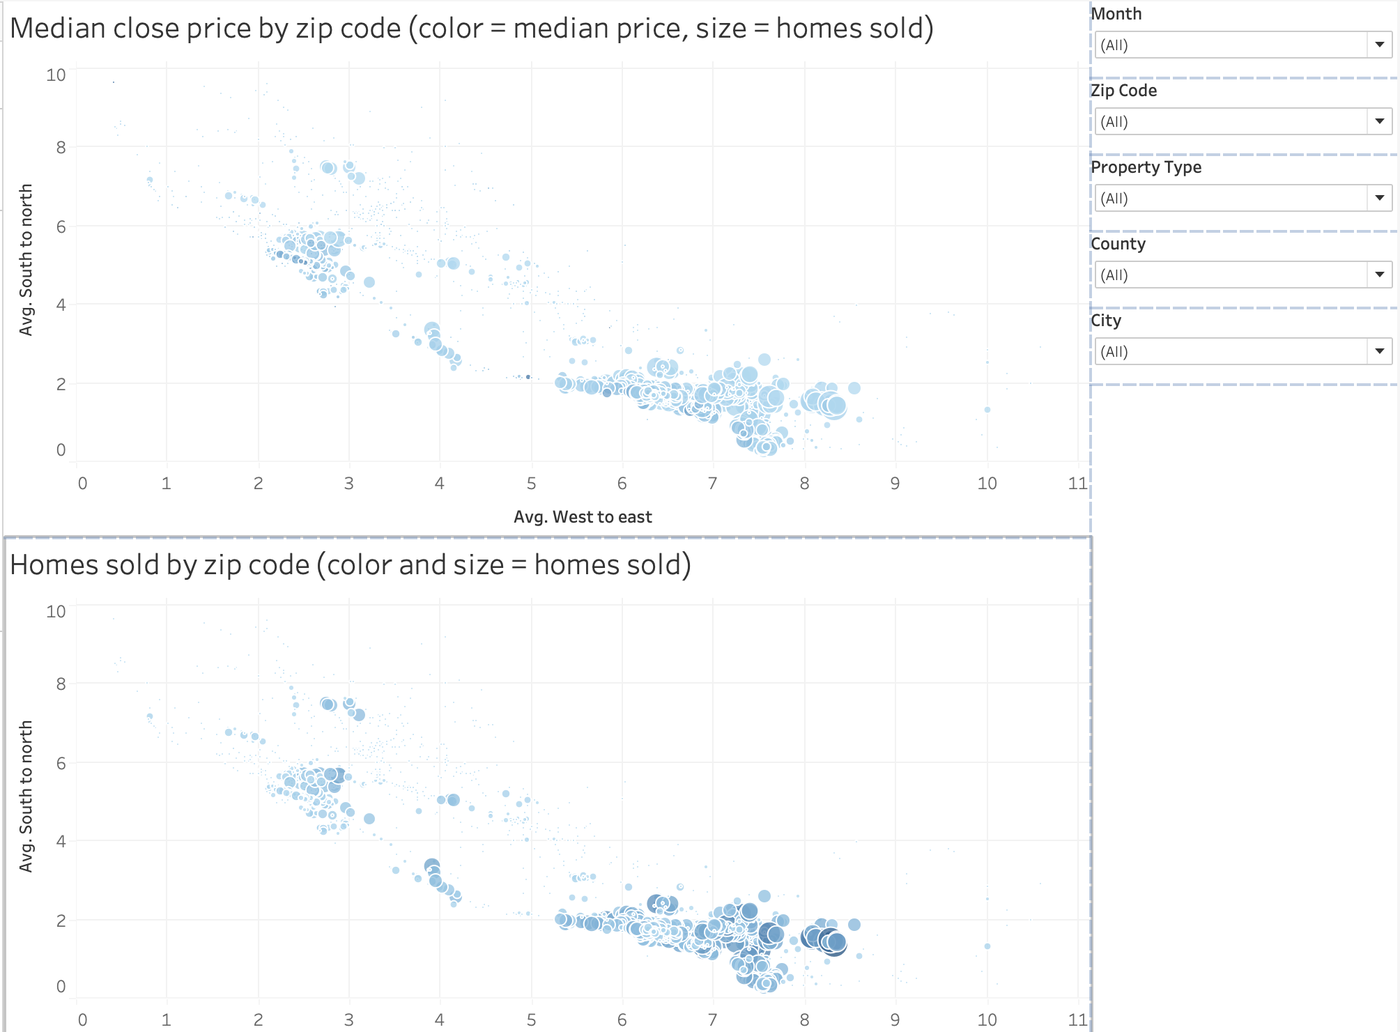
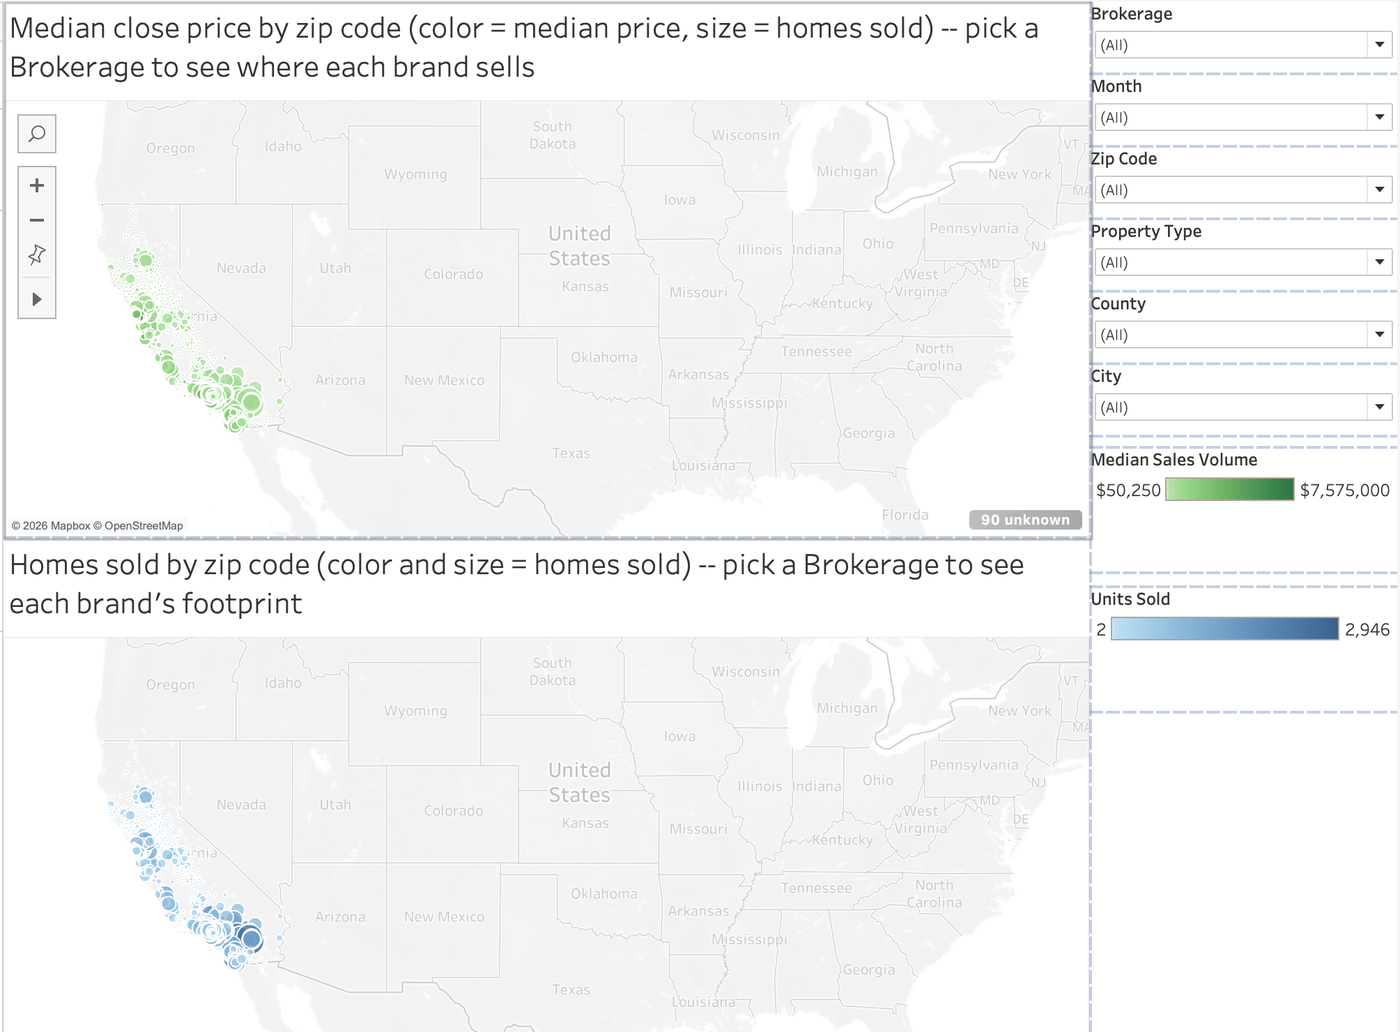
competitive workbook: zip heat maps on Tableau's basemap with brokerage filter and legends
Zips geocoded by Tableau (ZipCode geographic role + generated lat/long),
green/blue palettes, color legends, junk-zip cut (unknowns 2K -> 90), and a
Brokerage dropdown that turns the required heat maps into brand footprint
maps. Sales Volume as its own calculated field so legends title correctly.
Gallery image and READMEs refreshed.

diff --git a/week8-10/make_competitive_workbook.py b/week8-10/make_competitive_workbook.py
@@ -40,7 +40,10 @@ SHARE_FORMULA = "SUM([unit]) / SUM({ EXCLUDE [office_display] : SUM([unit]) }) *
 SOLD_COLS = f"""
       <column caption='Close Date' datatype='date' name='[CloseDate]' role='dimension' type='ordinal' />
       <column caption='Month' datatype='string' name='[YrMo]' role='dimension' type='nominal' />
-      <column caption='Sales Volume' datatype='real' default-format='{FMT_MONEY_FULL}' name='[ClosePrice]' role='measure' type='quantitative' />
+      <column caption='Close Price' datatype='real' default-format='{FMT_MONEY_FULL}' name='[ClosePrice]' role='measure' type='quantitative' />
+      <column caption='Sales Volume' datatype='real' default-format='{FMT_MONEY_FULL}' name='[Calculation_volume]' role='measure' type='quantitative'>
+        <calculation class='tableau' formula='[ClosePrice]' />
+      </column>
       <column datatype='string' name='[City]' role='dimension' type='nominal' />
       <column caption='County' datatype='string' name='[CountyOrParish]' role='dimension' type='nominal' />
       <column caption='Zip Code' datatype='string' name='[PostalCode]' role='dimension' semantic-role='[ZipCode].[Name]' type='nominal' />
@@ -85,6 +88,7 @@ BM_COLS = f"""
 GEO_DIMS = ["CountyOrParish", "City", "PostalCode", "PropertySubType"]
 FG = {d: i + 1 for i, d in enumerate(GEO_DIMS)}
 FG["YrMo"] = 5
+FG["brokerage"] = 6
 
 
 def datasource(name, hyper, cols):
@@ -254,7 +258,7 @@ def agents_bars(name, by):
 def offices_bars(name, by):
     """Top 100 listing offices as a ranked bar chart, filterable by the four dimensions."""
     rank_col = f"office_rank_{by}"
-    measure_col = "unit" if by == "units" else "ClosePrice"
+    measure_col = "unit" if by == "units" else "Calculation_volume"
     measure_inst = f"[sum:{measure_col}:qk]"
     gdeps, gfilts, gslices = geo_filters(SOLD)
     band_col = f"office_band_{by}"
@@ -272,17 +276,16 @@ def offices_bars(name, by):
 
 
 # ---------------------------------------------------------------------- maps
-def zip_map(name, title, color_inst, color_col, deriv):
-    """Zip-code map: one circle per zip at its mean coordinates, colored by the
-    measure and sized by homes sold. Built from the rows' own Latitude/Longitude."""
-    gdeps, gfilts, gslices = geo_filters(SOLD, month=True)
+def zip_map(name, title, color_inst, color_col, deriv, palette):
+    """Zip-code heat map on Tableau's basemap: zips geocoded by Tableau (PostalCode
+    carries the ZipCode geographic role), one circle per zip, color = the measure,
+    size = homes sold. Filterable by month, the four dimensions, and brokerage."""
+    gdeps, gfilts, gslices = geo_filters(SOLD, dims=GEO_DIMS + ["brokerage"], month=True)
     deps = gdeps + "\n" + "\n".join("            " + x for x in [
-        inst("lat_ca", "None", "qk"), inst("lon_ca", "None", "qk"),
-        inst("lat_ca", "Avg"), inst("lon_ca", "Avg"), inst("unit", "Sum"), inst(color_col, deriv)])
-    gfilts = (gfilts + "\n" + range_filter(SOLD, "lat_ca", 0, 9.9)
-              + "\n" + range_filter(SOLD, "lon_ca", 0, 10.6))
-    gslices = (gslices + f"\n            <column>[{SOLD}].[none:lat_ca:qk]</column>"
-               f"\n            <column>[{SOLD}].[none:lon_ca:qk]</column>")
+        inst("zip_rank", "None", "qk"), inst("unit", "Sum"), inst(color_col, deriv)])
+    filters = gfilts + "\n" + range_filter(SOLD, "zip_rank", 1, 1500)
+    slices = gslices + f"\n            <column>[{SOLD}].[none:zip_rank:qk]</column>"
+    extra = "          <mapsources>\n            <mapsource name='Tableau' />\n          </mapsources>"
     panes = f"""          <pane>
             <view>
               <breakdown value='auto' />
@@ -295,14 +298,24 @@ def zip_map(name, title, color_inst, color_col, deriv):
             </encodings>
             <style>
               <style-rule element='mark'>
-                <format attr='mark-transparency' value='200' />
+                <format attr='mark-transparency' value='190' />
                 <format attr='has-stroke' value='true' />
                 <format attr='stroke-color' value='#ffffff' />
               </style-rule>
             </style>
           </pane>"""
-    return sheet(name, SOLD, title, deps, gfilts, gslices, panes,
-                 f"[{SOLD}].[avg:lat_ca:qk]", f"[{SOLD}].[avg:lon_ca:qk]", style="        <style />")
+    style = f"""        <style>
+          <style-rule element='mark'>
+            <encoding attr='color' field='[{SOLD}].{color_inst}' palette='{palette}' type='interpolated' />
+          </style-rule>
+          <style-rule element='map'>
+            <format attr='washout' value='0.5' />
+            <format attr='map-style' value='light' />
+          </style-rule>
+        </style>"""
+    return sheet(name, SOLD, title, deps, filters, slices, panes,
+                 f"[{SOLD}].[Latitude (generated)]", f"[{SOLD}].[Longitude (generated)]",
+                 extra_view=extra, style=style)
 
 
 # ------------------------------------------------------------- brokerage power
@@ -451,6 +464,12 @@ class Dash:
         self.zones.append(f"          <zone h='{b['h']}' id='{self._id()}' mode='checkdropdown' name='{s}' "
                           f"param='[{ds}].[none:{dim}:nk]' type-v2='filter' w='{b['w']}' x='{b['x']}' y='{b['y']}' />")
 
+    def legend(self, s, param, title, x, y, w, h):
+        b = px(x, y, w, h)
+        self.zones.append(f"          <zone custom-title='{title}' friendly-name='Color Legend' h='{b['h']}' id='{self._id()}' "
+                          f"name='{s}' pane-specification-id='0' param='[{SOLD}].{param}' show-title='true' "
+                          f"type-v2='color' w='{b['w']}' x='{b['x']}' y='{b['y']}' />")
+
     def xml(self):
         n = px(0, 770, 1000, 30)
         return f"""    <dashboard name='{self.name}'>
@@ -503,10 +522,10 @@ def main():
         agents_bars("Agents by Volume", "volume"),
         offices_bars("Offices by Units", "units"),
         offices_bars("Offices by Volume", "volume"),
-        zip_map("Zip Map - Median Price", "Median close price by zip code (color = median price, size = homes sold)",
-                "[med:ClosePrice:qk]", "ClosePrice", "Median"),
-        zip_map("Zip Map - Homes Sold", "Homes sold by zip code (color and size = homes sold)",
-                "[sum:unit:qk]", "unit", "Sum"),
+        zip_map("Zip Map - Median Price", "Median close price by zip code (color = median price, size = homes sold) -- pick a Brokerage to see where each brand sells",
+                "[med:ClosePrice:qk]", "ClosePrice", "Median", "green_10_0"),
+        zip_map("Zip Map - Homes Sold", "Homes sold by zip code (color and size = homes sold) -- pick a Brokerage to see each brand's footprint",
+                "[sum:unit:qk]", "unit", "Sum", "blue_10_0"),
         share_lines(),
         opendoor_bars(),
         kpi("KPI Compass Share", "Compass share of listing sides, 2026 H1", "[avg:share_pct:qk]", "share_pct", "Avg", ["Compass"], H1_2026),
@@ -519,8 +538,9 @@ def main():
     note_state = ("CRMLS sold, Jan 2024 - Jun 2026, 455,449 closed sales; 255 placeholder records (NONMEMBER etc.) "
                   "excluded from rankings and share denominators. Units = closed sales; volume = sum of close price.")
     note_geo = note_state + " Filters apply to every view on this tab."
-    note_map = ("CRMLS sold, Jan 2024 - Jun 2026. One circle per zip code at the mean coordinates of its sales "
-                "(88% of rows carry coordinates); color = the measure, size = homes sold. Filters apply to the map.")
+    note_map = ("CRMLS sold, Jan 2024 - Jun 2026, all closed sales; zip codes geocoded by Tableau (junk zips with under "
+                "a handful of sales excluded). Color = the measure, size = homes sold. Filters apply to both maps; "
+                "the Brokerage filter turns them into a footprint map for any brand.")
     note_brok = ("Brokerage brands resolved from normalized office names (Compass / Keller Williams / Coldwell Banker / "
                  "RE/MAX / eXp / Berkshire / Century 21 / Sotheby's / Redfin / Real Broker / Equity Union / Opendoor / "
                  "Others). Share = brand listing sides / all listing sides that month. 2026 is January-June only.")
@@ -542,8 +562,10 @@ def main():
     d3 = Dash("Zip Code Heatmaps", note_map)
     d3.sheet("Zip Map - Median Price", 0, 0, 780, 385)
     d3.sheet("Zip Map - Homes Sold", 0, 385, 780, 385)
-    for i, dim in enumerate(["YrMo", "PostalCode", "PropertySubType", "CountyOrParish", "City"]):
-        d3.card(SOLD, dim, "Zip Map - Median Price", 780, i * 55, 220, 55)
+    for i, dim in enumerate(["brokerage", "YrMo", "PostalCode", "PropertySubType", "CountyOrParish", "City"]):
+        d3.card(SOLD, dim, "Zip Map - Median Price", 780, i * 52, 220, 52)
+    d3.legend("Zip Map - Median Price", "[med:ClosePrice:qk]", "Median Close Price", 780, 320, 220, 90)
+    d3.legend("Zip Map - Homes Sold", "[sum:unit:qk]", "Homes Sold", 780, 420, 220, 90)
 
     d7 = Dash("Brokerage Power", note_brok)
     for i, k in enumerate(["KPI Compass Share", "KPI Compass Volume", "KPI Real Broker Share", "KPI Opendoor Sides"]):

diff --git a/week8-10/README.md b/week8-10/README.md
@@ -64,10 +64,10 @@ Four tabs, structured the way the team's published competitive workbooks are (ra
 |---|---|---|
 | **Top 100 Agents** | Top 100 listing agents by sales volume and units | Two ranked bar charts — by Sales Volume and by Units Sold — labeled "Rank · Agent, Office" with the value on every bar; statewide, precomputed |
 | **Top 100 Offices** | Top 100 listing offices … filterable by city, county, zip, PropertySubType | Same two ranked bar charts for the statewide top-100 offices, with Zip / Property Type / County / City dropdowns on the right — filters show each office's activity within the selection |
-| **Zip Code Heatmaps** | Zip-code heat maps of median close price and homes sold, filterable by month + the four dimensions | Two coordinate maps (one circle per zip at the mean coordinates of its sales; color = the measure, size = homes sold) with Month / Zip / Property Type / County / City dropdowns |
+| **Zip Code Heatmaps** | Zip-code heat maps of median close price and homes sold, filterable by month + the four dimensions | Two maps on Tableau's basemap (zips geocoded by Tableau; one circle per zip, color = the measure, size = homes sold, color legends) with Month / Zip / Property Type / County / City dropdowns — plus a **Brokerage** dropdown that turns either map into a footprint map for any brand (the capstone's geographic lens: where does Compass sell, and at what price?) |
 | **Brokerage Power** (own design) | One competitive dashboard of your own design | KPIs (Compass share of listing sides 2026 H1 **7.9%** · Compass 2024 volume **$23.7B** · Real Broker share **2.3%** · Opendoor listing sides 2026 H1 **109**) · monthly share lines for seven brands · Opendoor's listing sides by month |
 
-**Entity resolution (documented in the extracts script):** office names upper-cased, trimmed, whitespace-collapsed (19,269 raw strings → 18,615 offices); agents keyed as name + office (the program case study's convention); 255 placeholder records (NONMEMBER etc., 0.06%) excluded from every ranking and share denominator. Units are closed sales (never outlier-filtered); volume is the sum of close price. Brokerage brands are resolved by contains-rules on the normalized office name (Compass, Keller Williams, Coldwell Banker, RE/MAX, eXp, Berkshire Hathaway, Century 21, Sotheby's, Redfin, Real Broker, Equity Union, Opendoor, Others). The zip maps use the rows' own latitude/longitude (88% coverage), so no geocoding step is involved.
+**Entity resolution (documented in the extracts script):** office names upper-cased, trimmed, whitespace-collapsed (19,269 raw strings → 18,615 offices); agents keyed as name + office (the program case study's convention); 255 placeholder records (NONMEMBER etc., 0.06%) excluded from every ranking and share denominator. Units are closed sales (never outlier-filtered); volume is the sum of close price. Brokerage brands are resolved by contains-rules on the normalized office name (Compass, Keller Williams, Coldwell Banker, RE/MAX, eXp, Berkshire Hathaway, Century 21, Sotheby's, Redfin, Real Broker, Equity Union, Opendoor, Others). The zip maps are geocoded by Tableau from the zip code itself, so every closed sale counts whether or not its row carries coordinates; zips with only a handful of sales (mostly data-entry junk) are excluded from the maps.
 
 **What it shows:** Compass is #1 by volume and still gaining share (7.3% → 8.0% of listing sides, 2024 → 2026 H1); Keller Williams and RE/MAX are losing share; Real Broker and Equity Union are the fastest risers; Opendoor's listing activity collapsed from a 109-a-month peak to 14 by mid-2026 (2026 shown as January–June only, never annualized).
 

diff --git a/README.md b/README.md
@@ -388,7 +388,7 @@ Two scripts in `week8-10/`:
 
 **Sanity check against the team.** Reviewed against the director's reference workbook (*CA Market Analysis – Premium Edition*) and teammates' published workbooks: geography-organized tabs, KPI tiles top-left, direct rounded labels, one dropdown driving every chart, and desktop 1000×800 sizing all match the standard. The one feature a teammate has that this workbook doesn't yet is a **year-over-year overlay** (2024 / 2025 / 2026 on a single January–December axis) — queued for the next iteration alongside the Weeks 9–10 competitive workbook.
 
-**The competitive workbook (Weeks 9–10), built the same way.** `make_competitive_extracts.py` resolves entities the way the program's case study prescribes (normalized office keys, agent = name + office, 255 placeholder records excluded from every ranking) and writes three extracts; `make_competitive_workbook.py` generates four tabs in the same structure the team's published competitive workbooks use: the top-100 listing agents and offices by units and by volume as ranked, directly-labeled bar charts (offices filterable by zip, property type, county, and city), two zip-code heat maps built from the rows' own coordinates (filterable by month and the four dimensions), and the own-design **Brokerage Power** tab — Compass share of listing sides 7.9% in 2026 H1 and still rising, Keller Williams and RE/MAX sliding, Real Broker and Equity Union doubling, and Opendoor's listing activity collapsing from 109 a month to 14. Details and the tab table are in [week8-10/README.md](week8-10/README.md).
+**The competitive workbook (Weeks 9–10), built the same way.** `make_competitive_extracts.py` resolves entities the way the program's case study prescribes (normalized office keys, agent = name + office, 255 placeholder records excluded from every ranking) and writes three extracts; `make_competitive_workbook.py` generates four tabs in the same structure the team's published competitive workbooks use: the top-100 listing agents and offices by units and by volume as ranked, directly-labeled bar charts (offices filterable by zip, property type, county, and city), two zip-code heat maps on Tableau's basemap (geocoded zips, filterable by month, the four dimensions, and — our addition — brokerage, so the required map doubles as a brand footprint map), and the own-design **Brokerage Power** tab — Compass share of listing sides 7.9% in 2026 H1 and still rising, Keller Williams and RE/MAX sliding, Real Broker and Equity Union doubling, and Opendoor's listing activity collapsing from 109 a month to 14. Details and the tab table are in [week8-10/README.md](week8-10/README.md).
 
 **How to update this workbook from here (the weekly routine).**
 1. New month of data → run the Weeks 1–7 stages → `python3 week8-10/make_extracts.py` (rebuilds the two `.hyper` extracts, including the rank columns).
